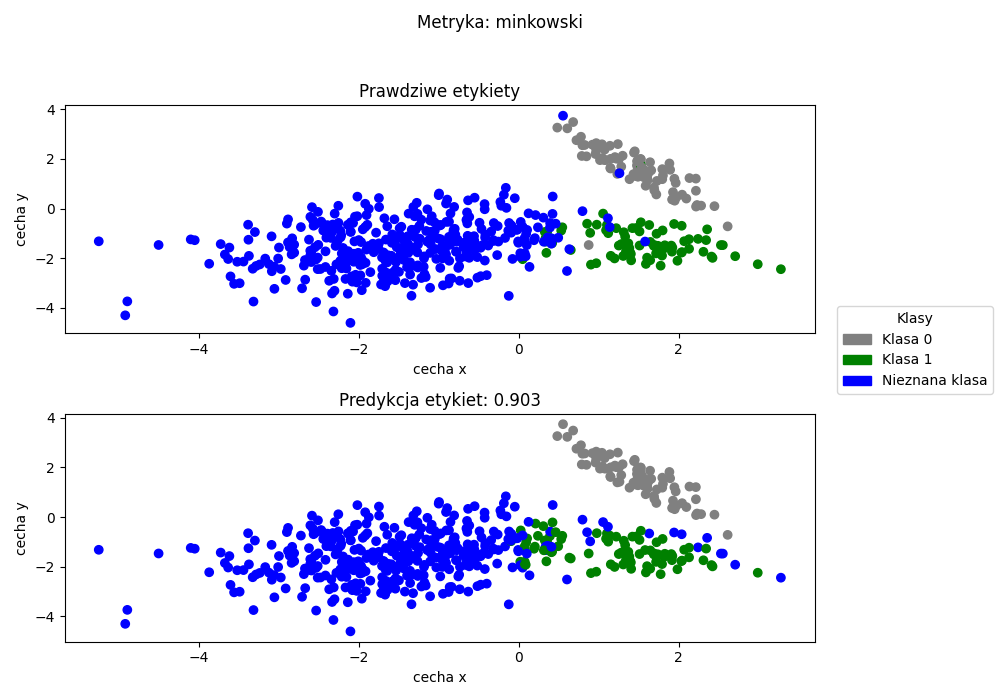
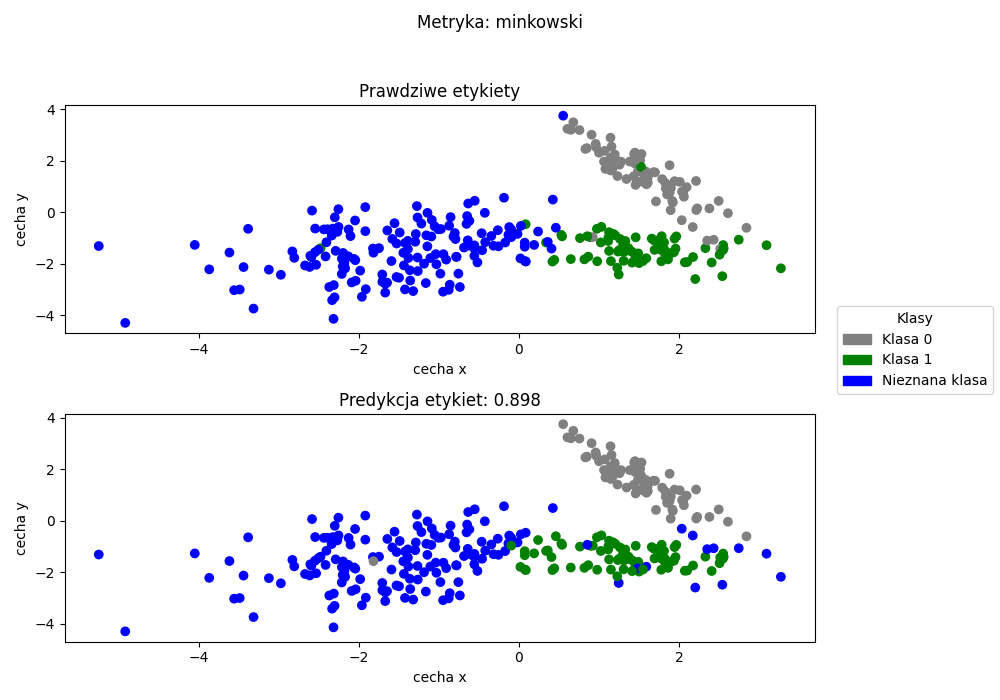
iteracja i zapis

diff --git a/main.py b/main.py
@@ -1,57 +1,70 @@
 import numpy as np
 from Classification import Knn_with_OSR
-from Syntetic_data import X_train, X_test, y_train, y_test, flag
+from Syntetic_data import X_known, y_known, X_unknown, y_unknown, flag
 from sklearn.metrics import confusion_matrix
 import pandas as pd
 from sklearn.metrics import balanced_accuracy_score
 from Operations import *
+from datetime import datetime
+
 
 # Lista metryk
 metrics = ["euclidean", "manhattan", "minkowski", "squared_euclidean", "chebyshev"]
-
-unique_classes = np.unique(np.concatenate((y_train, y_test)))
-
-class_labels = list(unique_classes)
-label_names = [str(cls) for cls in class_labels]
-label_names[-1] = f"obca {class_labels[-1]}"
-
+results_summary = []
 
 print("Wyniki predykcji i metryk dla różnych odległości:\n")
 
 for metric in metrics:
-    print("=" * 60)
-    # Inicjalizacja klasyfikatora z daną metryką
-    knn = Knn_with_OSR(k=3, metric=metric)
+    scores = []
+    for i in range(10):
+        print("*************************** Iteracja: {} ***************************".format(i))
+        X_train, X_test, y_train, y_test = train_test_sets(X_known, y_known, X_unknown, y_unknown)
 
-    # Trenowanie modelu
-    knn.fit(X_train, y_train)
+        unique_classes = np.unique(np.concatenate((y_train, y_test)))
 
-    # Predykcja
-    predictions = knn.predict(X_test)
+        class_labels = list(unique_classes)
+        label_names = [str(cls) for cls in class_labels]
+        label_names[-1] = f"obca {class_labels[-1]}"
 
-    # Macierz pomyłek jako DataFrame
-    cm = confusion_matrix(y_test, predictions, labels=class_labels)
-    cm_df = pd.DataFrame(
-        cm,
-        index=[f"Klasa {name}" for name in label_names],
-        columns=[f"Klasa {name}" for name in label_names]
-    )
-    print("Metryka: {}".format(metric))
-    print("Macierz pomyłek:")
-    print("rzeczywiste/przewidziane")
-    print(cm_df)
+        # Inicjalizacja klasyfikatora z daną metryką
+        knn = Knn_with_OSR(k=3, threshold=None, metric=metric)
 
-    # Dokładność
-    balanced_accuracy = balanced_accuracy_score(y_test,predictions)
-    print(f"Procent poprawnych predykcji: {balanced_accuracy:.3f}\n")
+        # Trenowanie modelu
+        knn.fit(X_train, y_train)
 
-    # Utworzenie wykresu dla wybranej metryki
-    ''' 
-   if metric == "euclidean" and flag == 0:
-        y_pred = predictions
-        X_test1 = X_test
-        charts_true_predicted(X_test1,y_test,y_pred,balanced_accuracy,metric)'''
+        # Predykcja
+        predictions = knn.predict(X_test)
 
-    # Utworzenie wykresu dla każdej metryki
-    if flag == 0:
-        charts_true_predicted(X_test,y_test,predictions,balanced_accuracy,metric)
+        # Macierz pomyłek jako DataFrame
+        cm = confusion_matrix(y_test, predictions, labels=class_labels)
+        cm_df = pd.DataFrame(
+            cm,
+            index=[f"Klasa {name}" for name in label_names],
+            columns=[f"Klasa {name}" for name in label_names]
+        )
+        print("Metryka: {}".format(metric))
+        print("Macierz pomyłek:")
+        print("rzeczywiste/przewidziane")
+        print(cm_df)
+
+        # Dokładność
+        balanced_accuracy = balanced_accuracy_score(y_test,predictions)
+        scores.append(balanced_accuracy)
+        print(f"Procent poprawnych predykcji: {balanced_accuracy:.3f}\n")
+
+        # Utworzenie wykresu dla każdej metryki tylko w iteracji 0
+        if flag == 0 and i == 0:
+            charts_true_predicted(X_test,y_test,predictions,balanced_accuracy,metric)
+
+    # Wyznaczenie średniej i odchylenia standardowego dla 10 powtórzeń danej metryki
+    mean_score = round(np.mean(scores),3)
+    std_score = round(np.std(scores),3)
+    results_summary.append([metric, round(mean_score, 4), round(std_score, 4)])
+    print("\n\033[34mŚrednia balanced accuracy: {:.3f} \033[39m".format(mean_score))
+    print("\033[31mOdchylenie standardowe: {:.3f} \033[39m".format(std_score))
+
+df_results = pd.DataFrame(results_summary, columns=["Metryka", "Średnia", "Odchylenie"])
+timestamp = datetime.now().strftime("%Y-%m-%d_%H-%M-%S")
+filename = f"results/wyniki_knn_{timestamp}.csv"
+df_results.to_csv(filename, index=False)
+print(df_results)

diff --git a/Operations.py b/Operations.py
@@ -15,14 +15,21 @@ def train_test_sets(X_known,y_known,X_unknown,y_unknown):
     unknown_label = y_known.max() + 1
     y_unknown = np.full_like(y_unknown, fill_value=unknown_label)
 
+    # Rozłożenie klasy znanych i nieznanych po równo w zbiorze testowym - wybiera losowe próbki z unknown
+    num_known = X_test_known.shape[0]
+    if X_unknown.shape[0] > num_known:
+        idx = np.random.choice(X_unknown.shape[0], num_known, replace=False)
+        X_unknown = X_unknown[idx]
+        y_unknown = y_unknown[idx]
+
     # Ostateczna postać zbioru testowego
     X_test_final = np.vstack([X_test_known, X_unknown])
     y_test_final = np.hstack([y_test_known, y_unknown])
 
     # sprawdzenie kształtu tablic
-    print("X_test_known shape {}, X_unknown shape {} ".format(X_test_known.shape,X_unknown.shape))
-    print("y_test_known shape {}, y_unknown shape {} ".format(y_test_known.shape, y_unknown.shape))
-    print("Nowa etykieta klasy nieznanej:", unknown_label)
+    #print("X_test_known shape {}, X_unknown shape {} ".format(X_test_known.shape,X_unknown.shape))
+    #print("y_test_known shape {}, y_unknown shape {} ".format(y_test_known.shape, y_unknown.shape))
+    #print("Nowa etykieta klasy nieznanej:", unknown_label)
     # Zwraca potrzebne zbiory danych
     return X_train_known,X_test_final,y_train_known,y_test_final
 
@@ -57,4 +64,6 @@ def charts_true_predicted(X_test,y_test,y_pred,balanced_accuracy,metric):
     # Zapisanie wykresów do png
     plt.tight_layout(rect=[0, 0, 0.83, 0.95])
     plt.savefig("results/{}_True_Predict.png".format(metric))
+    plt.close(fig)
+
     #plt.show()

diff --git a/Classification.py b/Classification.py
@@ -31,7 +31,6 @@ class Knn_with_OSR(BaseEstimator):
                 distances.append(np.min(dists))  # można też użyć średniej z k
             # Ustaw próg jako percentyl (np. 95)
             self.threshold = np.percentile(distances, self.threshold_percentile)
-            print("threshold: {:.3f}".format(self.threshold))
 
     def euclidean_dist(self, x_test, x_train):
         return np.sqrt(np.sum((x_test - x_train) ** 2))
@@ -62,6 +61,7 @@ class Knn_with_OSR(BaseEstimator):
         if self.metric not in distance_functions:
             raise ValueError(f"Unsupported metric: {self.metric}")
 
+        print("threshold: {:.3f}".format(self.threshold))
         predictions = []
         for x_test in X_test:
             # Obliczanie odległości do każdego punktu w zbiorze treningowym

diff --git a/Syntetic_data.py b/Syntetic_data.py
@@ -18,7 +18,3 @@ y_known = y[y<=1]
 X_unknown = X[y==2]
 y_unknown = y[y==2]
 #print(y_known)
-
-# Wyznaczenie zbiorów treningowych i testowych
-X_train, X_test, y_train, y_test = train_test_sets(X_known,y_known,X_unknown,y_unknown)
-
